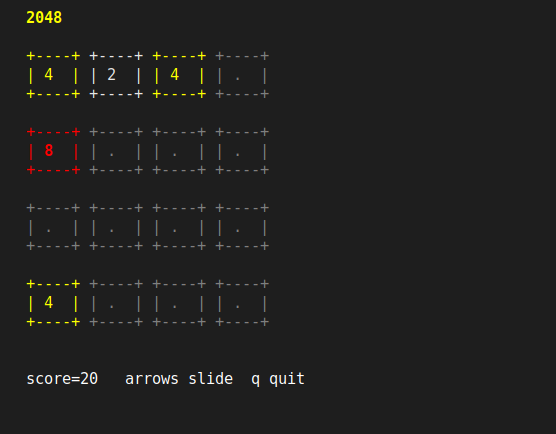
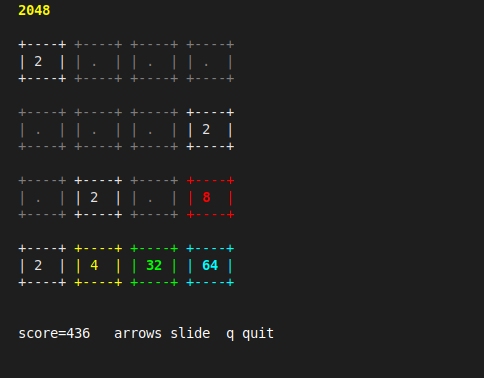
docs(D): the terminal, GTK and Eliah screenshots retaken on pin v450
All 14 showcase screenshots that dated from pin v423 (2026-09-24) are
retaken with pin v450 (c19cc2d531e4), from `make demos` built with that pin
(36/36). The 8 terminal programs were captured in xterm on Xvfb with
scripted keys (2048 now mid-game at score 436), and the 5 GTK programs on
Xvfb with software GL (Life shown running, generation 61). Eliah has a
form open in its designer. The player shows FFmpeg's testsrc2 pattern, and
its caption now says so. The Eliah core test is re-run on v450:
`eduth verdict: 323 passed, 0 failed` (was 202 on v426).
The page stamp names v450 for the screenshots. The site build resolves 18
of 18 images.

Claude-Session: https://claude.ai/code/session_01NjLGjNk5TGtQUgut3kU9eX

diff --git a/docs/examples/index.md b/docs/examples/index.md
@@ -21,11 +21,11 @@ strength of a test that once passed or a claim in another document.
 > row.
 > The binary sizes in the tables are from that run. The ESP32 QEMU runs were
 > redone with v449 too. Rows that were measured on an earlier pin say which:
-> the C and Pascal library rows, the ESP32 board runs, and the terminal and GTK
-> screenshots (taken 2026-09-24 with pin v423). With v449 the five GTK programs
-> were opened again on Xvfb, and each drew the same window as its screenshot,
-> compared by eye. A later pin may behave differently in either direction;
-> re-run a command to check.
+> the C and Pascal library rows and the ESP32 board runs. The terminal and GTK
+> screenshots, and the Eliah IDE's, were retaken on 2026-09-28 with pin v450
+> (sha256 `c19cc2d531e4…`), from programs built by `make demos` with that pin.
+> A later pin may behave differently in either direction; re-run a command to
+> check.
 >
 > Earlier passes: v423 (2026-09-24), v424 and v425 (2026-09-25), and v441, the
 > beta 0.1 compiler (2026-09-27). On each, the batch and parallel programs
@@ -167,7 +167,7 @@ C library. The screenshots were captured from each program running in an
 | Menu widgets | `examples/tui/menudemo.pas` | ![TUI menu](../assets/showcase/menudemo.png) |
 | File browser | `examples/fm/fm.pas` (`fm --interactive [path]`; with no flag it renders once and exits) | ![Terminal file browser](../assets/showcase/fm.png) |
 | Mandelbrot zoom | `examples/mandelbrot/mandelzoom.pas`: animated truecolor zoom using integer asm kernels on all cores (build with `--threadsafe`) | ![Mandelbrot zoom in a terminal](../assets/showcase/mandelzoom.png) |
-| Video player | `examples/player/player.pas`: `player <video>`, decodes through an `ffmpeg` child process and draws in truecolor blocks | ![Terminal video player](../assets/showcase/player.png) |
+| Video player | `examples/player/player.pas`: `player <video>`, decodes through an `ffmpeg` child process and draws in truecolor blocks. Shown playing FFmpeg's `testsrc2` test pattern | ![Terminal video player](../assets/showcase/player.png) |
 
 The chess engine (`examples/chess/chess.pas`) and the kiosk are
 line-oriented, so they are shown as text. At start-up the engine prints the
@@ -221,8 +221,8 @@ frame rates shown inside them are not representative of a real GPU.
 Lazarus- and Delphi-inspired but deliberately stripped down, with everything
 tiled into one window. It is early work and the layout still shows it. It also
 doubles as a real-world stress test for the compiler. It builds in about nine
-seconds, and its headless core test reports `202 passed, 0 failed` with pin
-v426. A second face for ESP32 boards, [the ESP32 IDE](../getting-started/esp-ide.md),
+seconds, and its headless core test reports `323 passed, 0 failed` with pin
+v450. A second face for ESP32 boards, [the ESP32 IDE](../getting-started/esp-ide.md),
 shares the same core.
 
 ```sh
